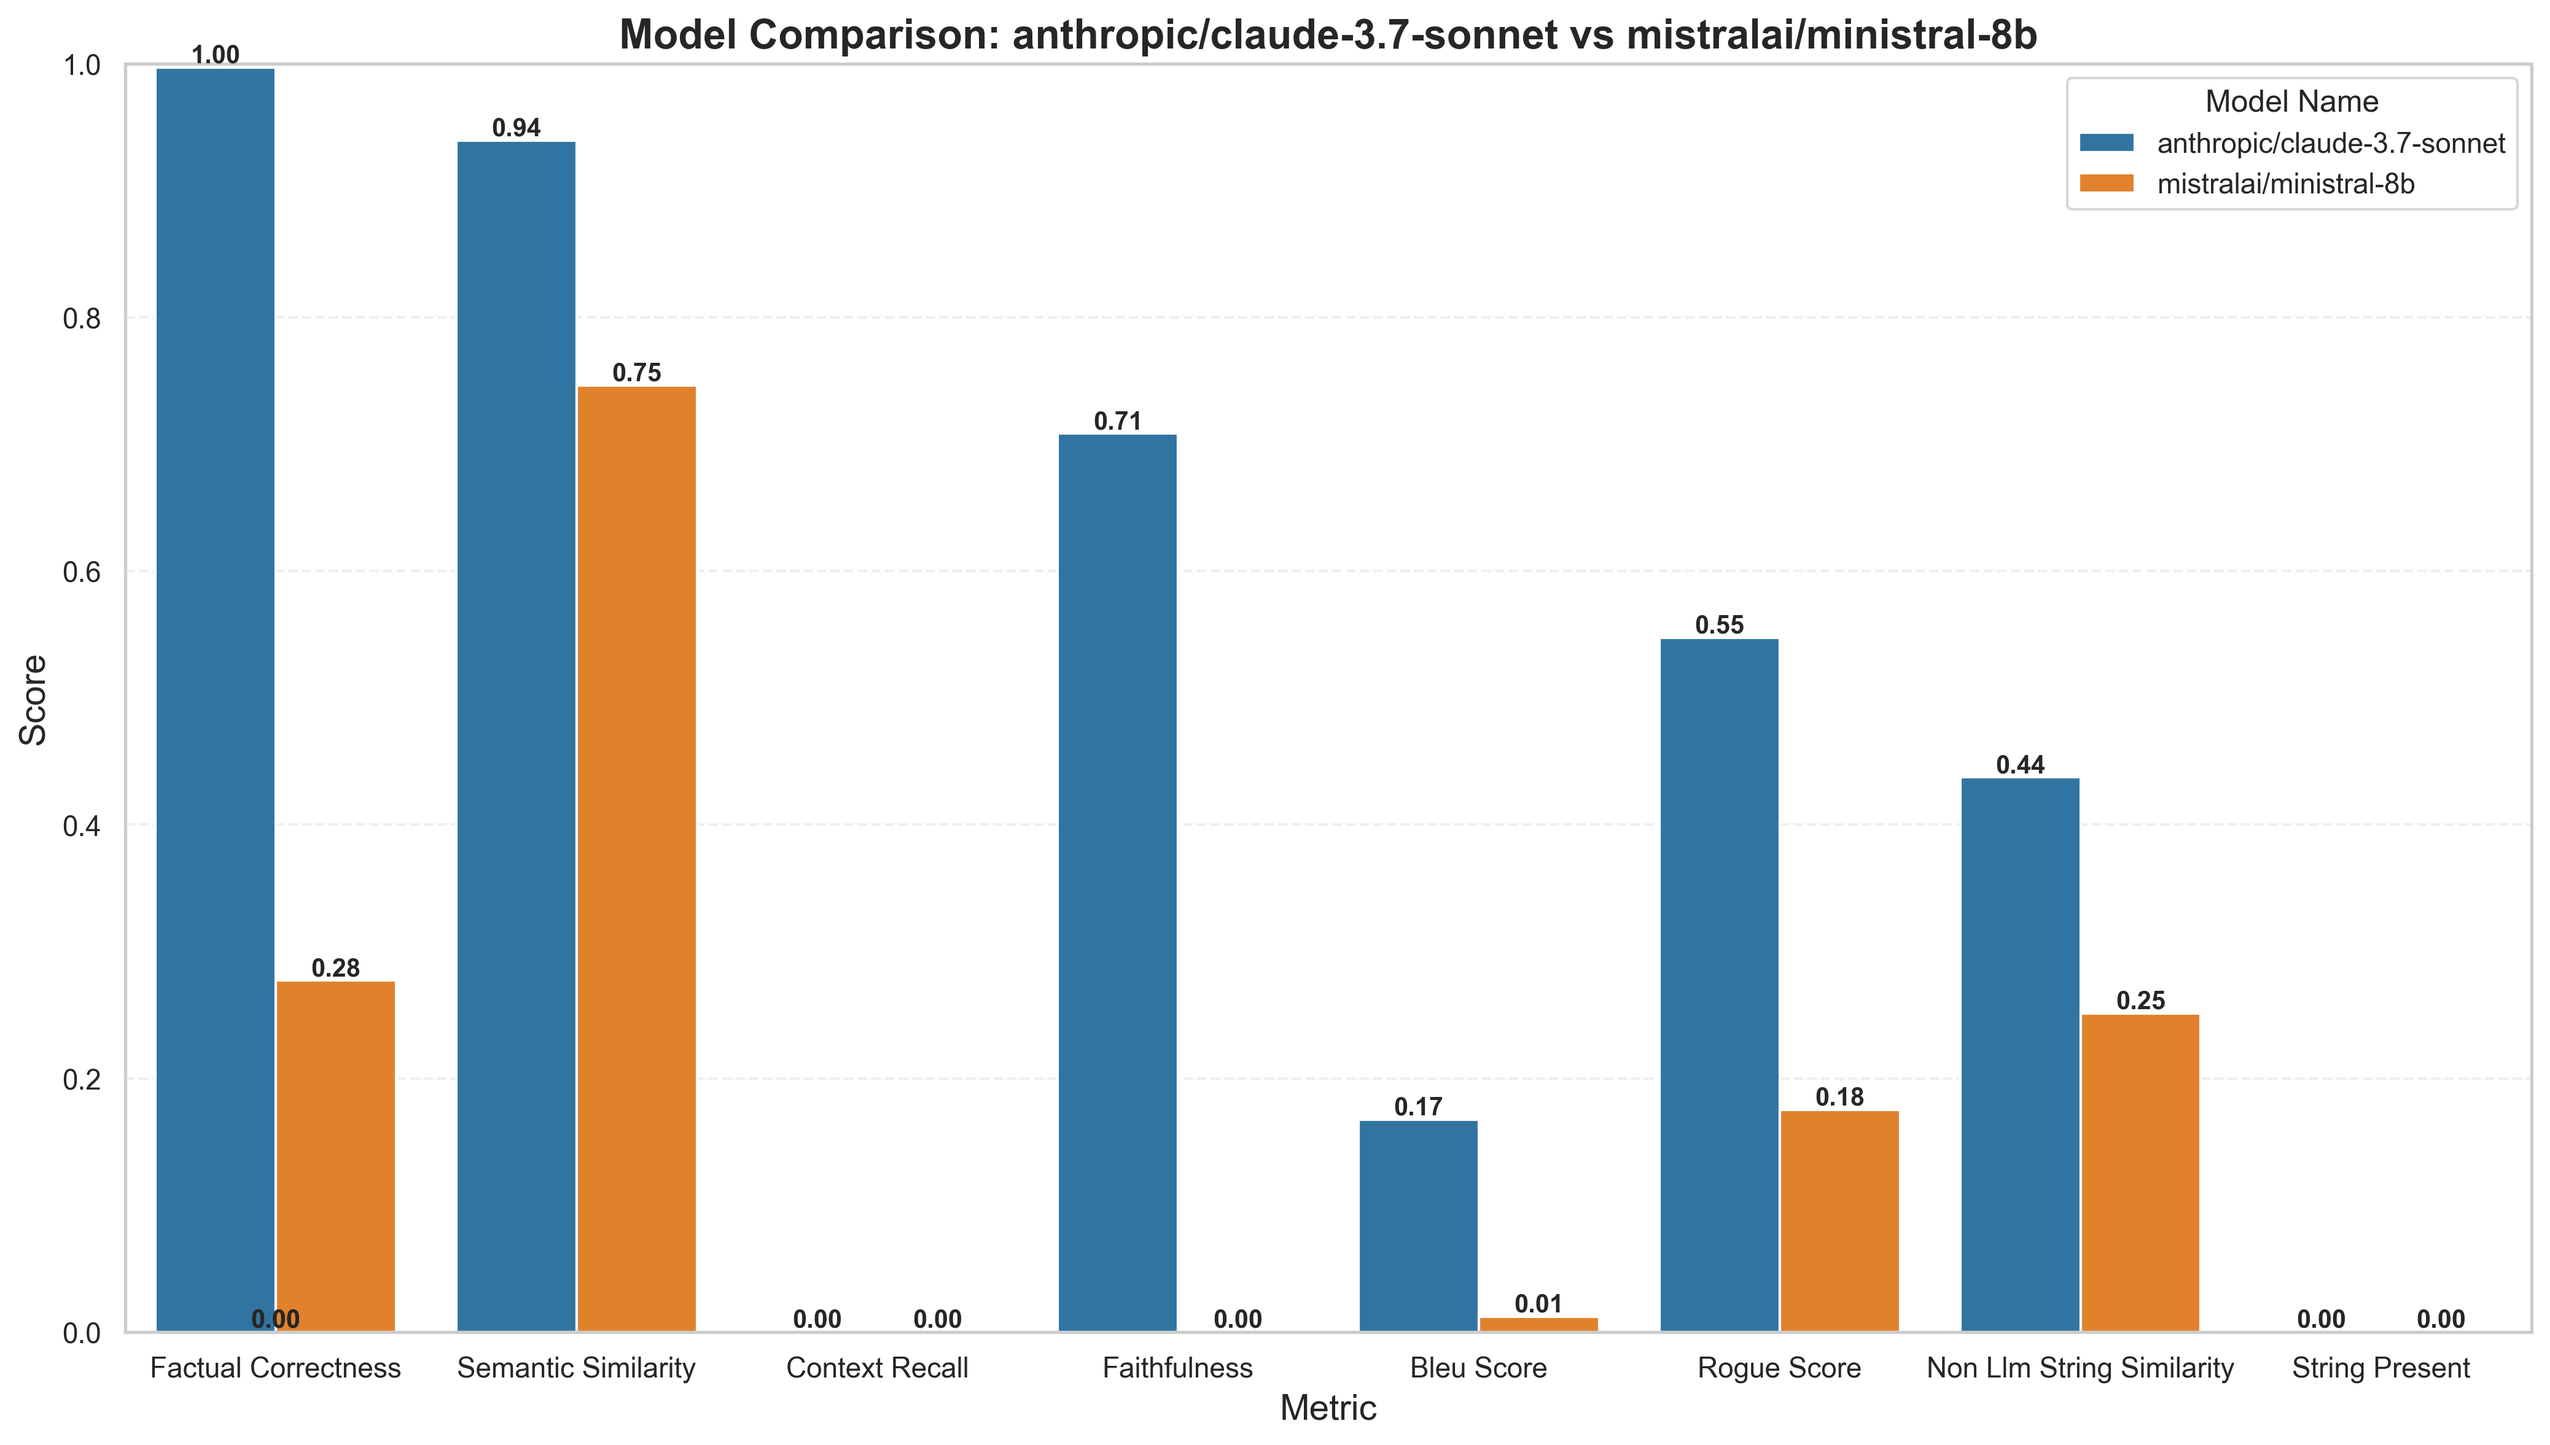
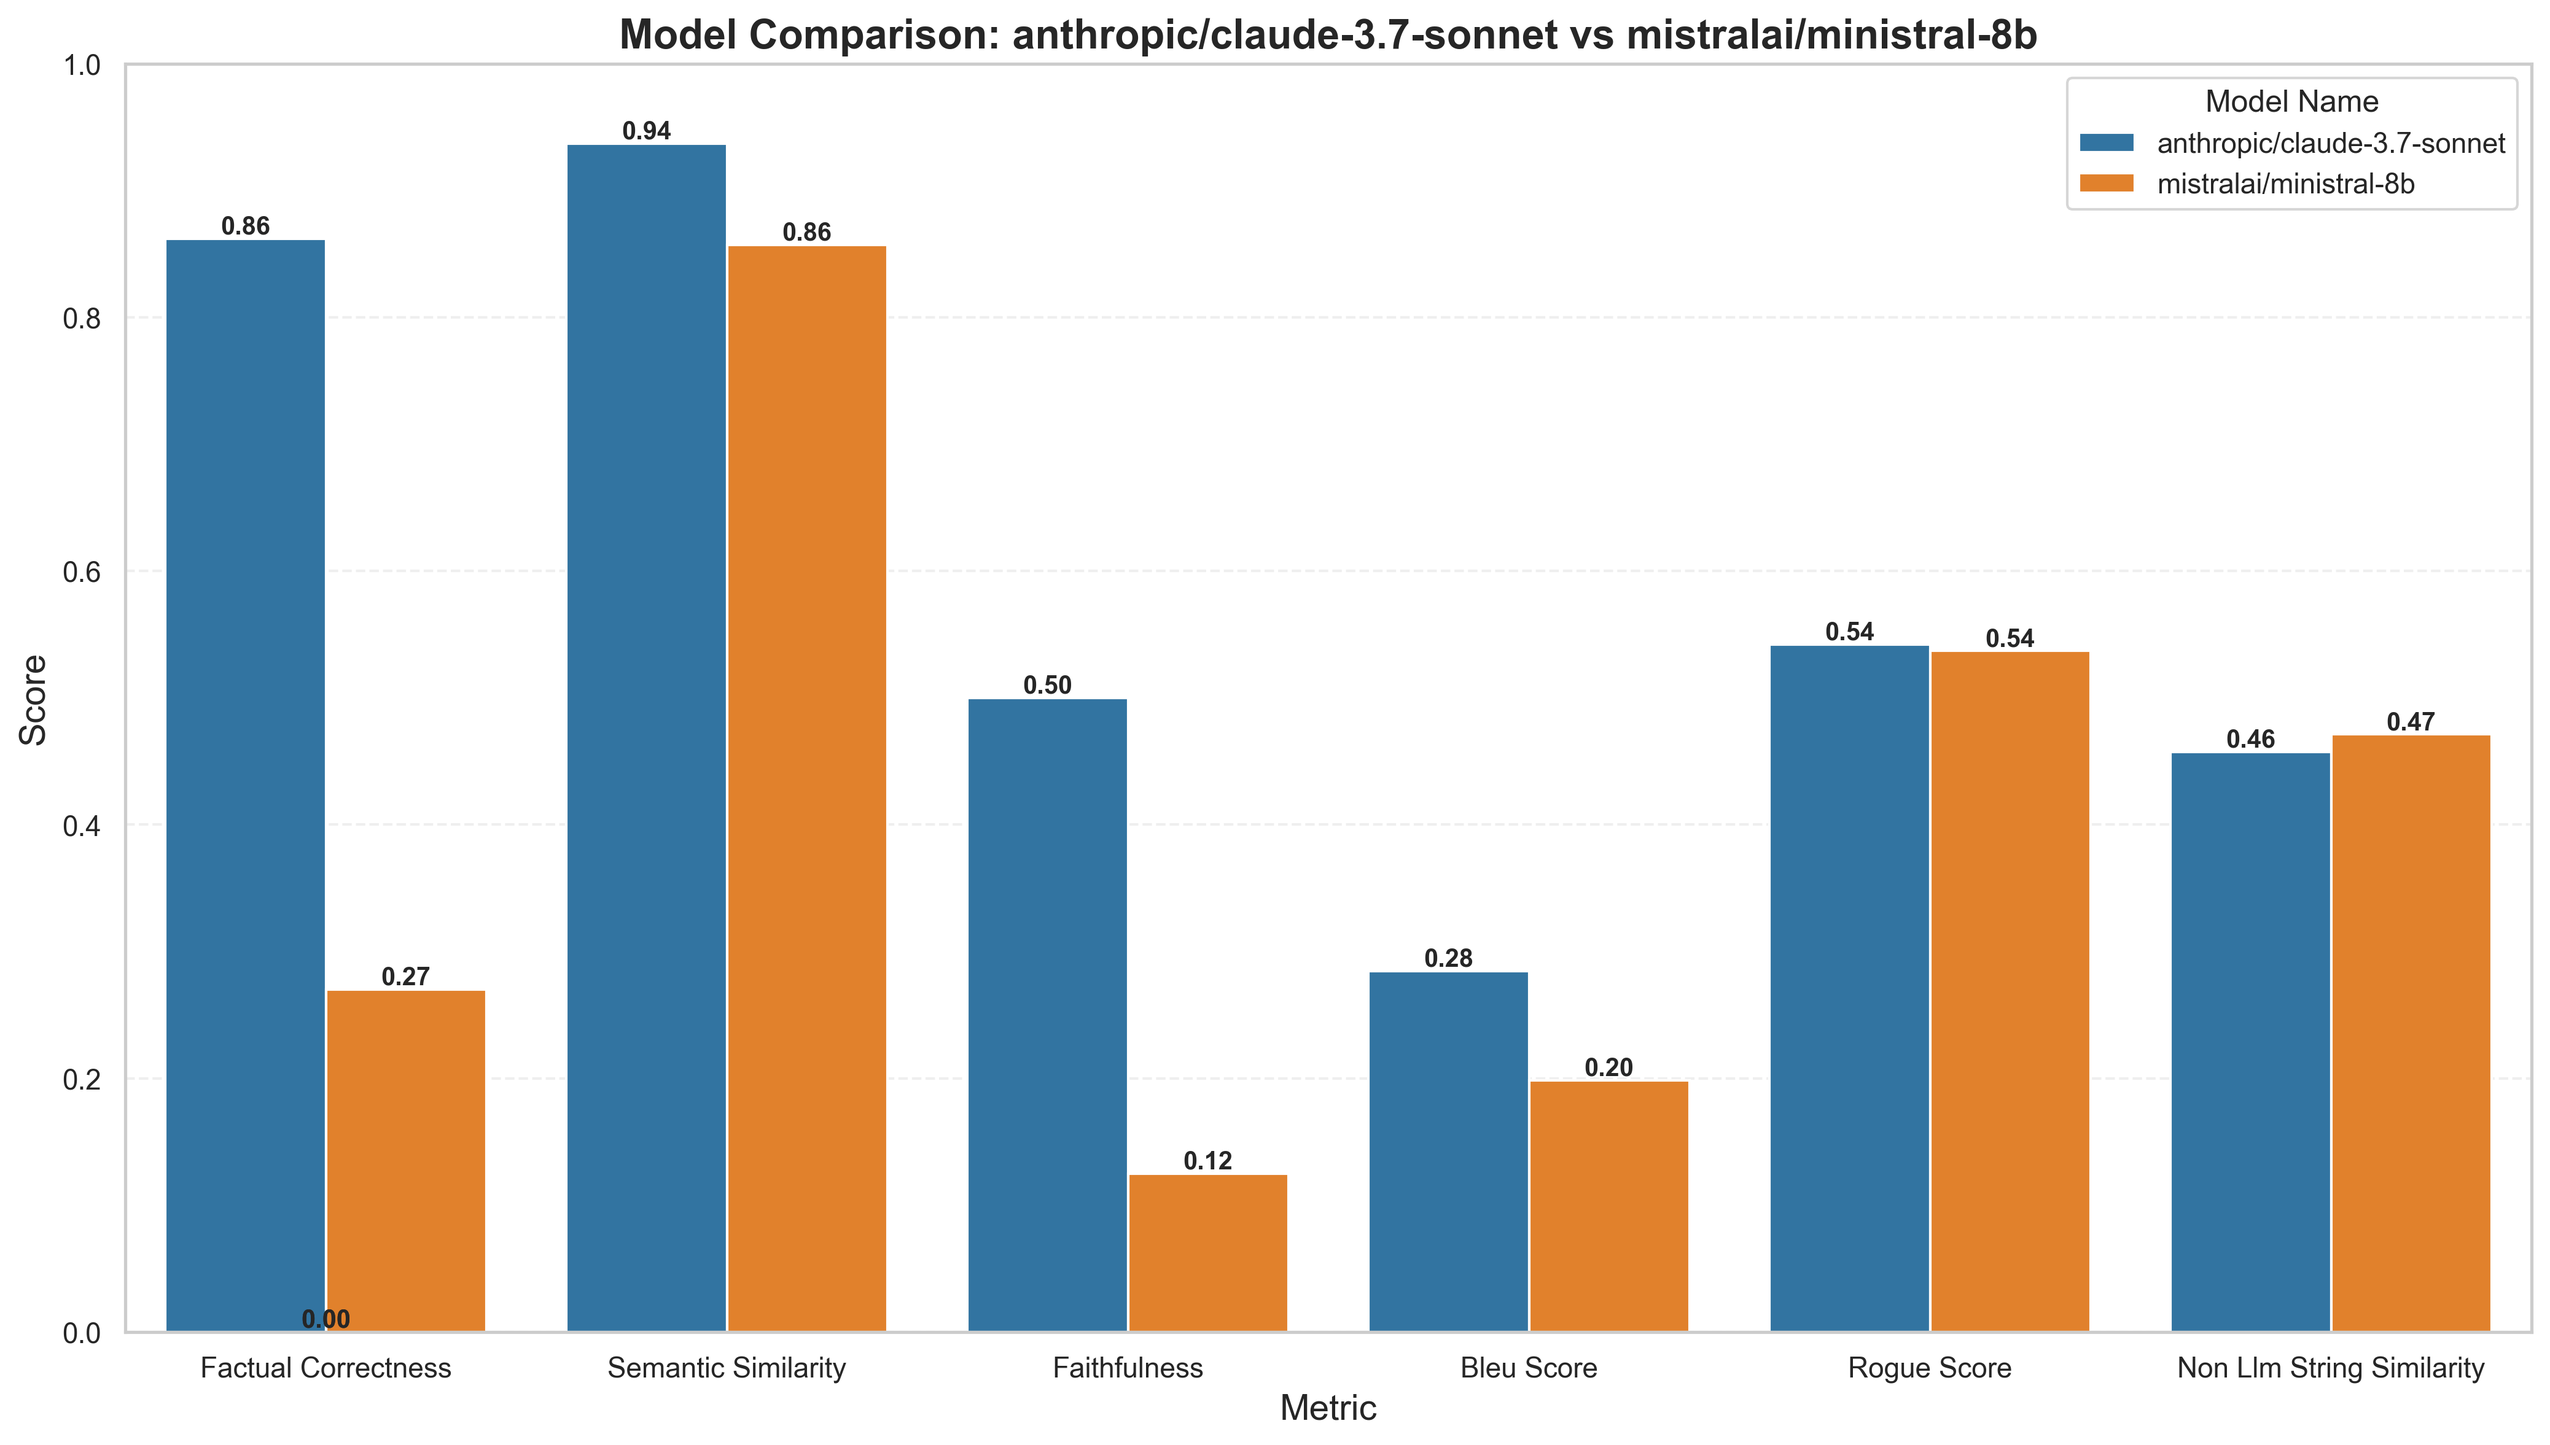
Removed context_recall and string_present. Evaluate Claude 3.7 Sonnet vs open-source models on 4 questions (2 runs each), generate charts from average scores.

diff --git a/frontend/pages/index.js b/frontend/pages/index.js
@@ -280,7 +280,7 @@ export default function QuestionForm() {
     setModelCategory(category);
     // Set a default model for the selected category
     if (category === "proprietary") {
-      setSelectedModel("openai/gpt-4o-2024-11-20");
+      setSelectedModel("anthropic/claude-3.7-sonnet");
     } else {
       setSelectedModel("qwen/qwen-2.5-72b-instruct");
     }
@@ -714,10 +714,7 @@ export default function QuestionForm() {
                       >
                         {modelCategory === "proprietary" ? (
                           <>
-                            <option value="openai/gpt-4o-2024-11-20">OpenAI GPT-4o</option>
                             <option value="anthropic/claude-3.7-sonnet">Claude 3.7 Sonnet</option>
-                            <option value="google/gemini-2.5-flash-preview">Gemini 2.5 Flash Preview</option>
-                            <option value="amazon/nova-pro-v1">Amazon Nova Pro</option>
                           </>
                         ) : (
                           <>
@@ -872,6 +869,10 @@ export default function QuestionForm() {
                   </>
                 )}
 
+                
+                <div className="mt-4 p-3 bg-yellow-50 border border-yellow-200 rounded-lg text-yellow-700 text-sm">
+                  <p>Lighthouse Bot can make mistakes. Please consider the answers carefully.</p>
+                </div>
   
               </div>
             </div>

diff --git a/backend/app/utils/chart_generator.py b/backend/app/utils/chart_generator.py
@@ -466,12 +466,10 @@ class ChartGenerator:
             metrics = [
                 'factual_correctness',
                 'semantic_similarity',
-                'context_recall',
                 'faithfulness',
                 'bleu_score',
                 'rogue_score',
-                'non_llm_string_similarity',  # Using exact database column name
-                'string_present'
+                'non_llm_string_similarity'  # Using exact database column name
             ]
         
         # Try to get available columns from the database
@@ -680,12 +678,10 @@ class ChartGenerator:
             metrics = [
                 'factual_correctness',
                 'semantic_similarity',
-                'context_recall',
                 'faithfulness',
                 'bleu_score',
                 'rogue_score',
-                'non_llm_string_similarity',
-                'string_present'
+                'non_llm_string_similarity'
             ]
         
         # Get available columns from the database to ensure we only query existing metrics
@@ -825,12 +821,10 @@ class ChartGenerator:
         metrics = [
             'factual_correctness',
             'semantic_similarity',
-            'context_recall',
             'faithfulness',
             'bleu_score',
             'rogue_score',
             'non_llm_string_similarity',  # Using exact database column name
-            'string_present'
         ]
         
         # Try to get available columns from the database
@@ -1002,12 +996,10 @@ class ChartGenerator:
         metrics = [
             'factual_correctness',   # Measures the factual accuracy
             'semantic_similarity',    # Measures semantic similarity to reference
-            'context_recall',        # Measures how well context is utilized
             'faithfulness',          # Measures answer's faithfulness to the context
             'bleu_score',            # BLEU Score for lexical similarity
             'non_llm_string_similarity',      # String similarity measure (exact column name)
             'rogue_score',           # ROUGE Score for summary evaluation
-            'string_present'         # Presence of specific strings
         ]
         
         # Define the query with error handling for missing columns
